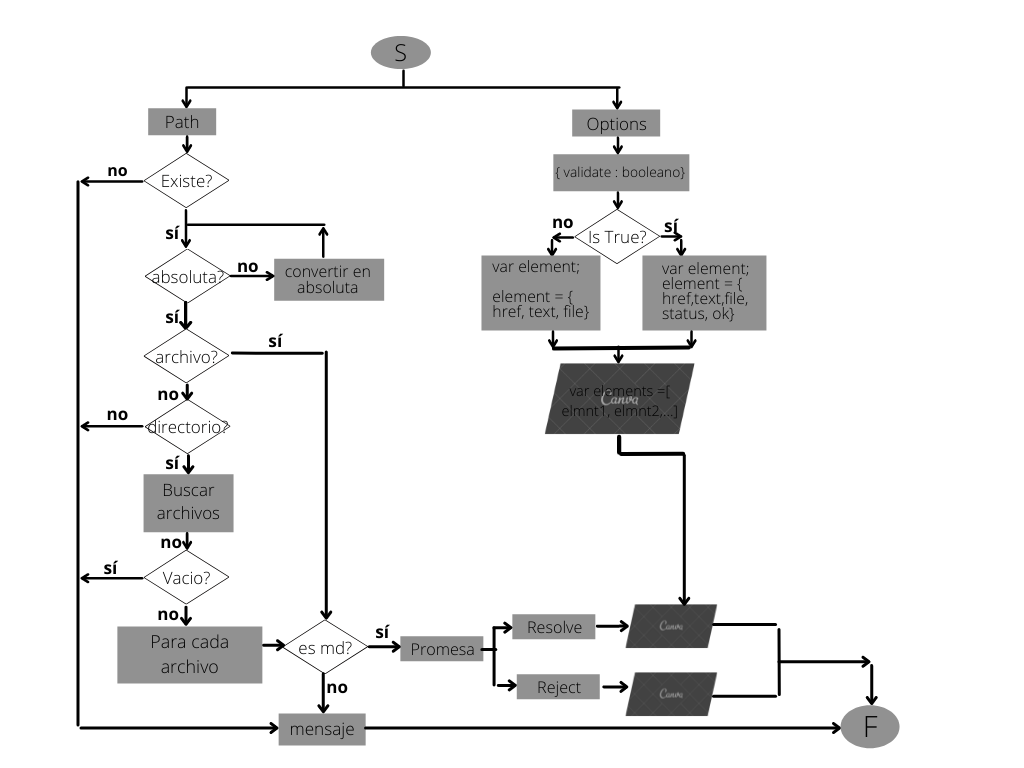
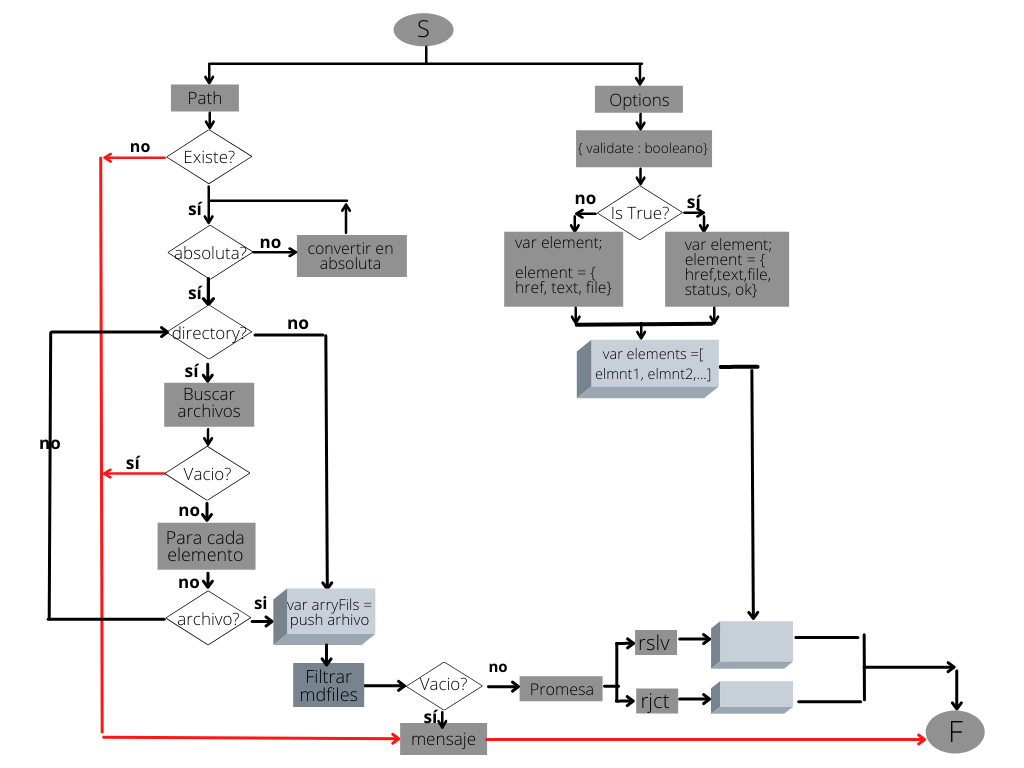
10.- Test al 90%, arreglando el diagrama API, agregando la recursividad

Changed region(s): [[0.0312, 0.0, 0.9688, 1.0]]

diff --git a/src/api.js b/src/api.js
@@ -18,78 +18,79 @@ const checkFile = (input) => fs.statSync(input).isFile();
 
 // Leyendo archivos de una carpeta
 const readContentDir = (directory) => {
-	const content = fs.readdirSync(directory);
-	if (content.length === 0) {
-		return 'Esta carpeta esta vacía';
-	}else{
-		const arrayContent = [];
-		content.forEach((element) => {
-			arrayContent.push(path.resolve(directory, element));
-		});
-		return arrayContent;
-	}
+  const content = fs.readdirSync(directory);
+  if (content.length === 0) {
+    return 'Esta carpeta esta vacía';
+  }
+  const arrayContent = [];
+  content.forEach((element) => {
+    arrayContent.push(path.resolve(directory, element));
+  });
+  return arrayContent;
 };
 
 // filtrar archivos md
 const filterFilesMD = (listFiles) => {
-	const arrayFilesMd = listFiles.filter(
-		(element) => path.extname(element) === '.md',
-	);
-	if (arrayFilesMd.length === 0) {
-		return 'La ruta ingresada no es(o no contiene) archivo(s) con extension .md';
-	}else{
-		return arrayFilesMd;
-	}
+  const arrayFilesMd = listFiles.filter(
+    (element) => path.extname(element) === '.md',
+  );
+  if (arrayFilesMd.length === 0) {
+    return 'La ruta ingresada no es(o no contiene) archivo(s) con extension .md';
+  }
+  return arrayFilesMd;
 };
 
-// Leemos la ruta ingresada y leemos sus archivos para retornar solo los archivos con extension md
+// Leemos la ruta ingresada y leemos sus elementos para retornar solo los archivos con extension md
 const checkAndGetMdFiles = (inputPath) => {
-	let arrayFilesMd=[];
-	// Verificamos si es un directorio, return true or false
-	if (fs.statSync(inputPath).isDirectory()) {
-		const contentDirectory = readContentDir(inputPath);
-		if (Array.isArray(contentDirectory)) {
-			contentDirectory.forEach((elmntDir) =>{
-				const contentElemnt = checkAndGetMdFiles(elmntDir);
-				if(Array.isArray(contentElemnt)){
-					arrayFilesMd=arrayFilesMd.concat(contentElemnt);
-				}
-			});
-			return filterFilesMD(arrayFilesMd);
-		} else{
-			return contentDirectory;
-		}
-	}else{
-		arrayFilesMd.push(inputPath);
-		return filterFilesMD(arrayFilesMd);
-	}
+  let arrayFilesMd = [];
+  // Verificamos si es un directorio, return true or false
+  if (fs.statSync(inputPath).isDirectory()) {
+    const contentDirectory = readContentDir(inputPath); // esto retorna un mensaje si esta vacio
+    // Verificamos si tiene elementos o no
+    if (Array.isArray(contentDirectory)) {
+      contentDirectory.forEach((elmntDir) => {
+        const contentElemnt = checkAndGetMdFiles(elmntDir);
+        if (Array.isArray(contentElemnt)) {
+          arrayFilesMd = arrayFilesMd.concat(contentElemnt);
+        }
+      });
+      return filterFilesMD(arrayFilesMd);
+    }
+    return contentDirectory;
+  }
+  arrayFilesMd.push(inputPath);
+  return filterFilesMD(arrayFilesMd);
 };
 
 const converter = new showdown.Converter();
 
 const readContentMdFile = (inputFile) => {
-	const contentFile = fs.readFileSync(inputFile).toString();
-	// leeremos contenido del archivo md
-	const contentHTML = converter.makeHtml(contentFile);
-	const dom = new JSDOM(contentHTML);
-	const arrayOfTagsA = dom.window.document.querySelectorAll('a');
-	const arrNew = [];
-	arrayOfTagsA.forEach((elem) => {
-		arrNew.push({
-			href: elem.href,
-			text: elem.textContent.slice(0, 50),
-			file: inputFile,
-		});
-	});
-	return arrNew;
+  // leeremos contenido del archivo md
+  const contentFile = fs.readFileSync(inputFile).toString();
+  // Transformamos el contenido en entrada html
+  // los links contenido en los archivos .md se convertiran en etiquetas de ancla
+  const contentHTML = converter.makeHtml(contentFile);
+  // Una vez encapsulado todo en etiquetas de html lo convertimos en documento HTML
+  const dom = new JSDOM(contentHTML);
+
+  const arrayOfTagsA = dom.window.document.querySelectorAll('a');
+  const arrNew = [];
+  arrayOfTagsA.forEach((elem) => {
+    arrNew.push({
+      href: elem.href,
+      text: elem.textContent.slice(0, 50),
+      file: inputFile,
+    });
+  });
+  return arrNew;
 };
 
 module.exports = {
-	checkExistPath,
-	returnPathInAbsolute,
-	checkFile,
-	checkAndGetMdFiles,
-	filterFilesMD,
-	readContentDir,
-	readContentMdFile,
+  checkExistPath,
+  returnPathInAbsolute,
+  checkFile,
+  checkAndGetMdFiles,
+  filterFilesMD,
+  readContentDir,
+  readContentMdFile,
 };
